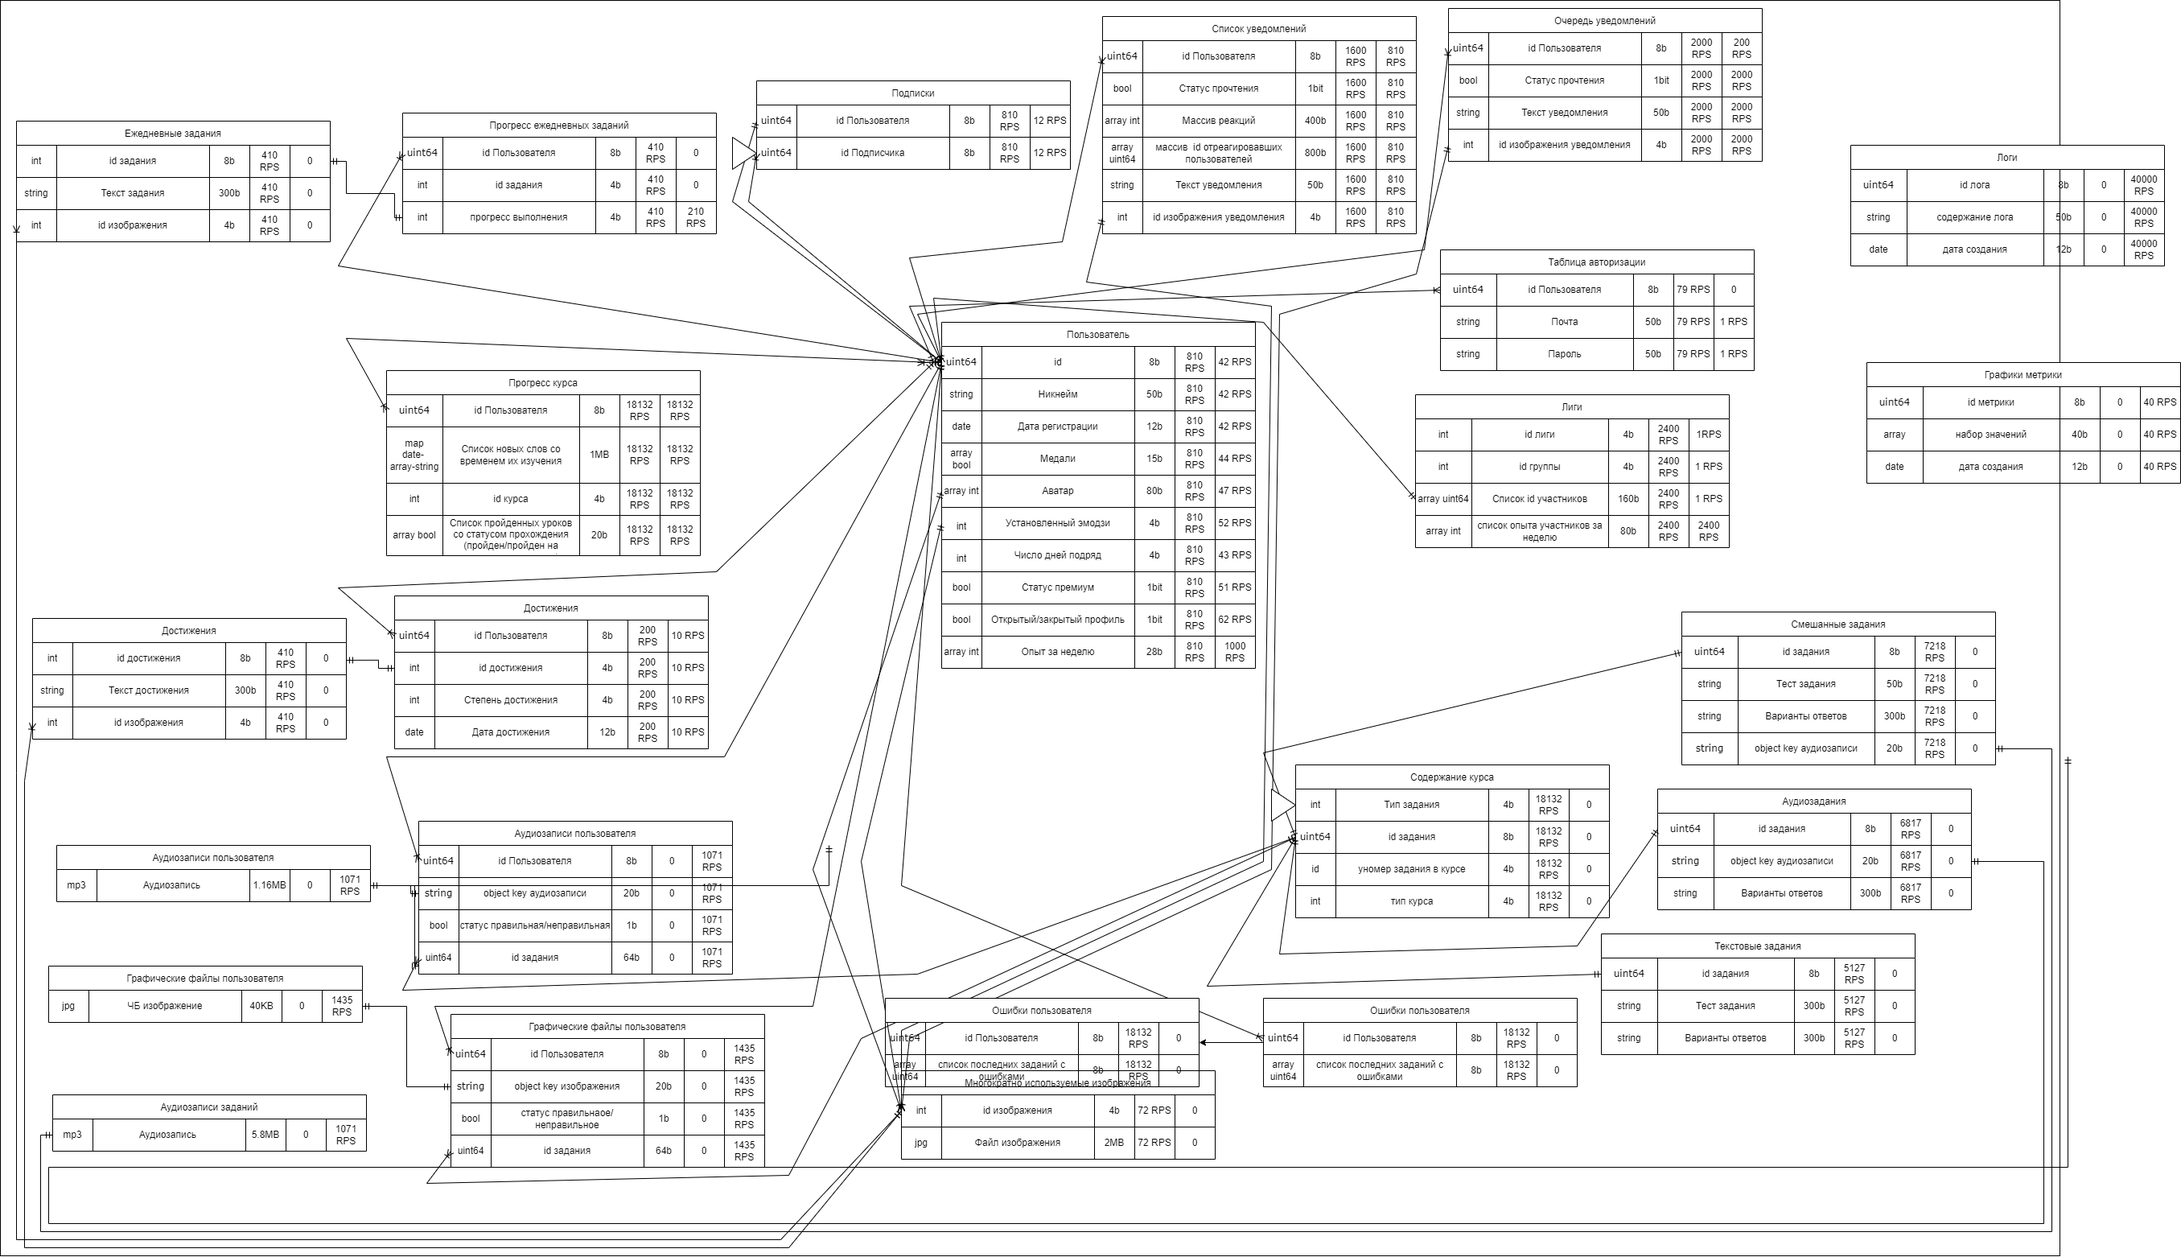
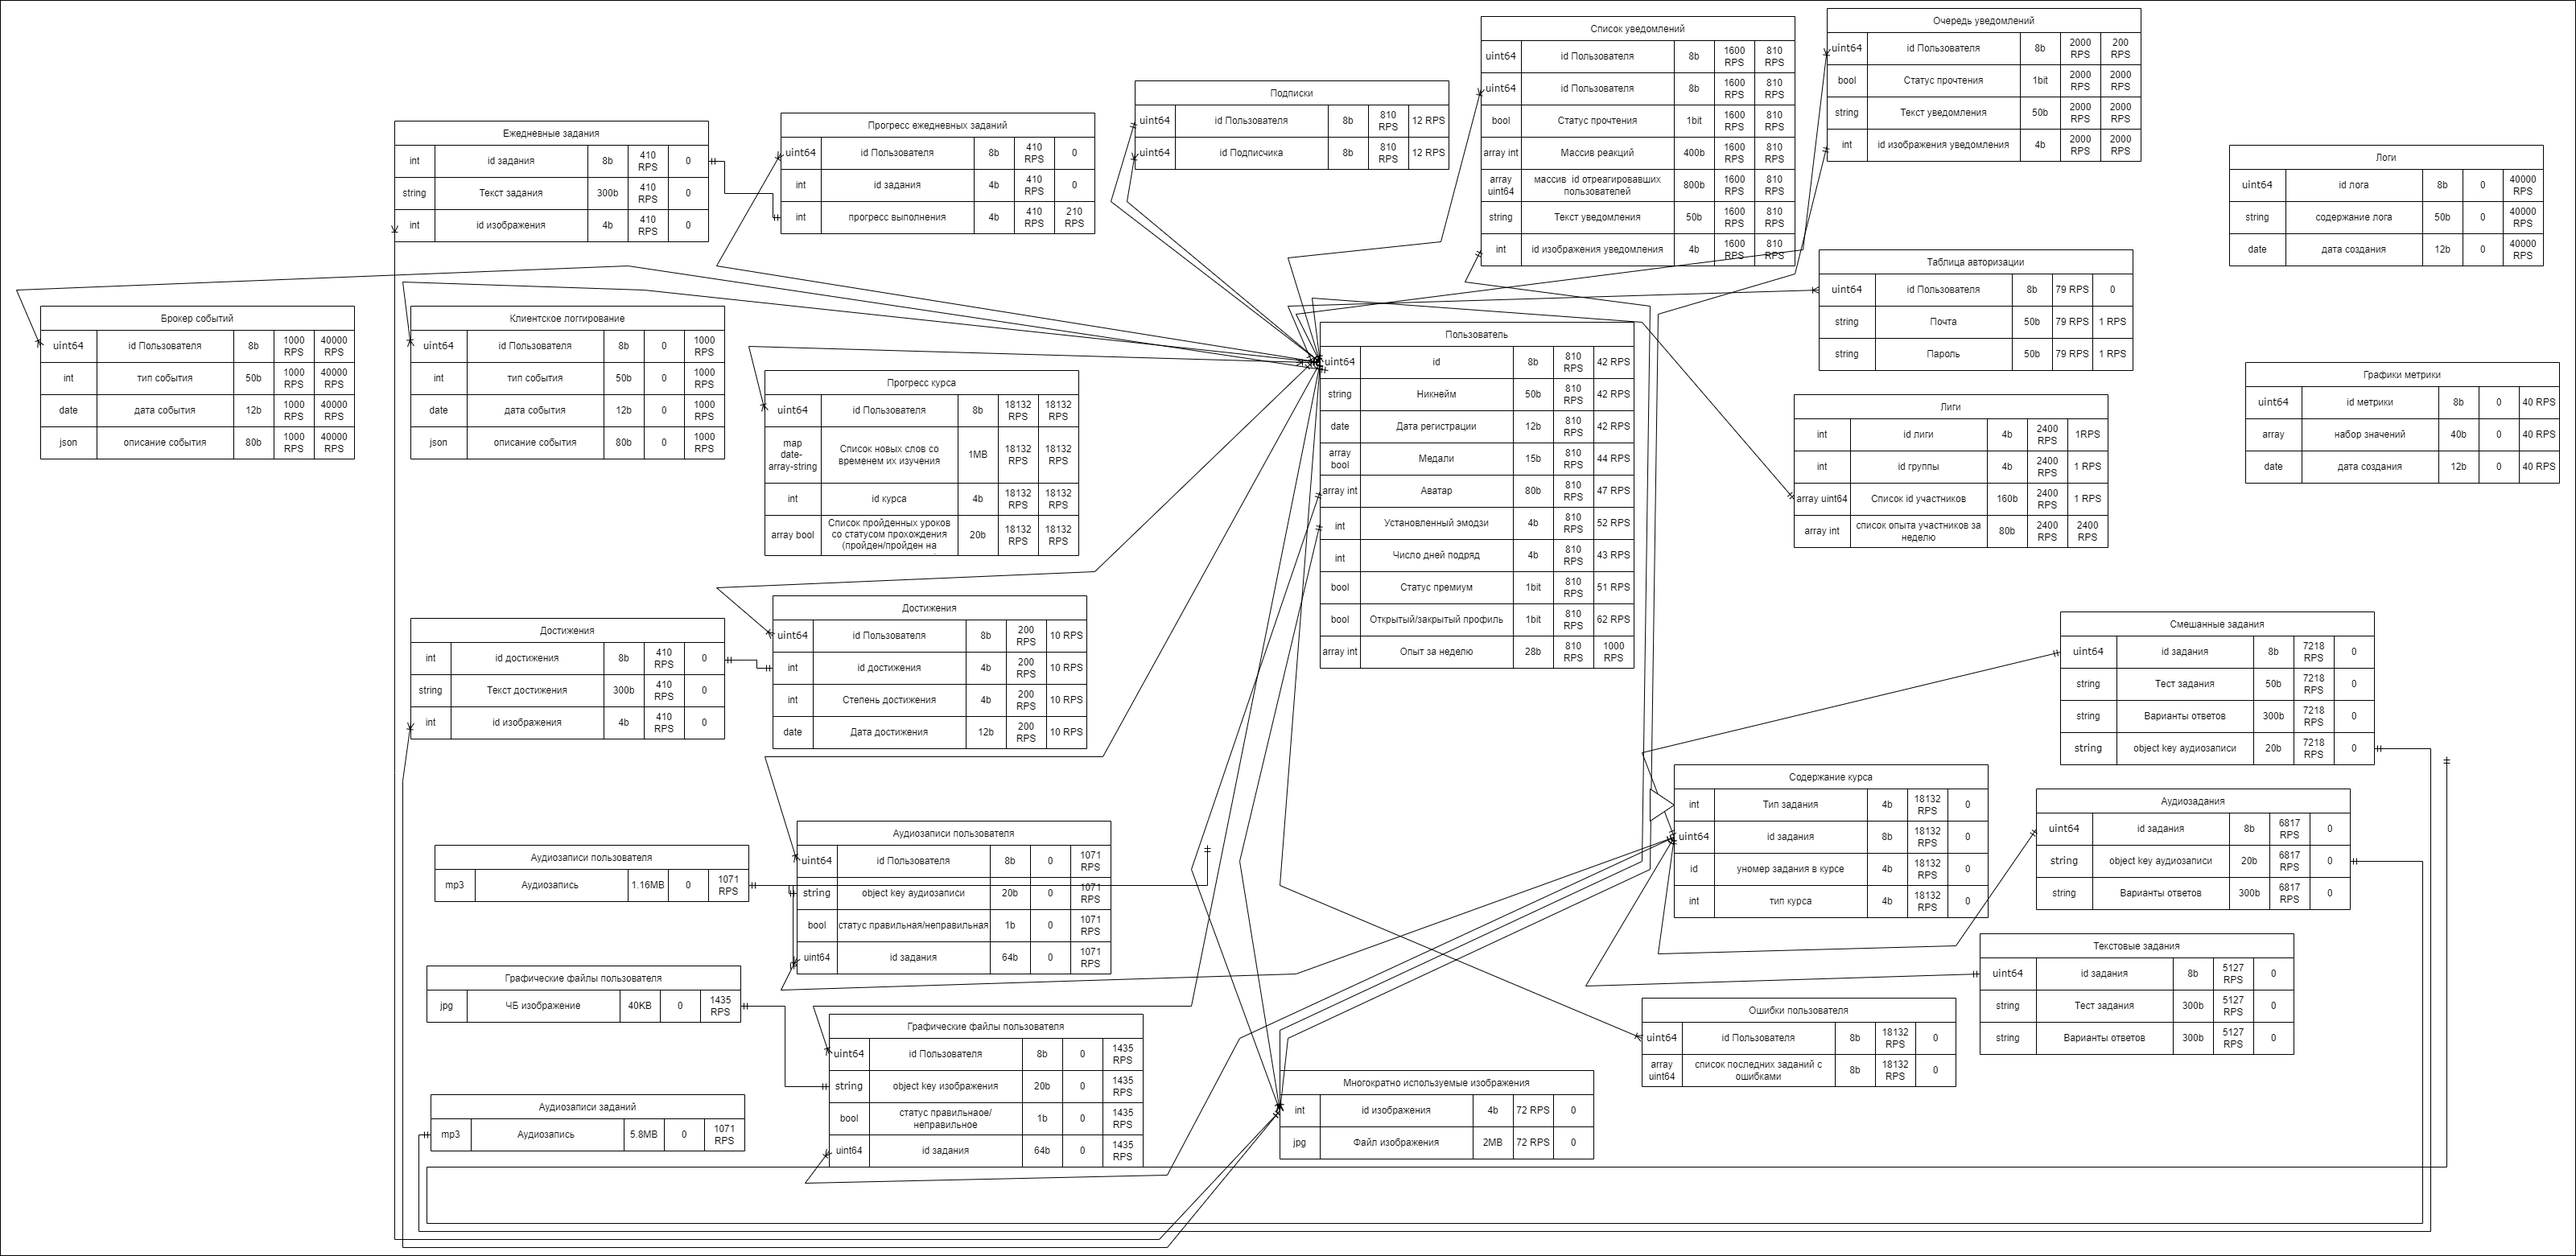
kafka

diff --git a/README.md b/README.md
@@ -254,6 +254,8 @@ Nginx держит постоянное соединение с бекендом
 **Очередь уведомлений** - очередь уведомлений для реализации realtime уведомлений.  
 **Графические метрики** - сбор метрик в виде графиков для мониторинга состояния сервиса.  
 **Логи** - логирование запросов выделено в отдельную таблицу, так как ее можно отдельно оптимизировать.  
+**Клиентское логирование** - логирование событий в которое происходит запись блоками из брокера событий.  
+**Брокер событий** - регистрирует все события собирает их в блоки и записывает в таблицу клиентское логирование.  
 
 ### **Логическая схема:**
 
